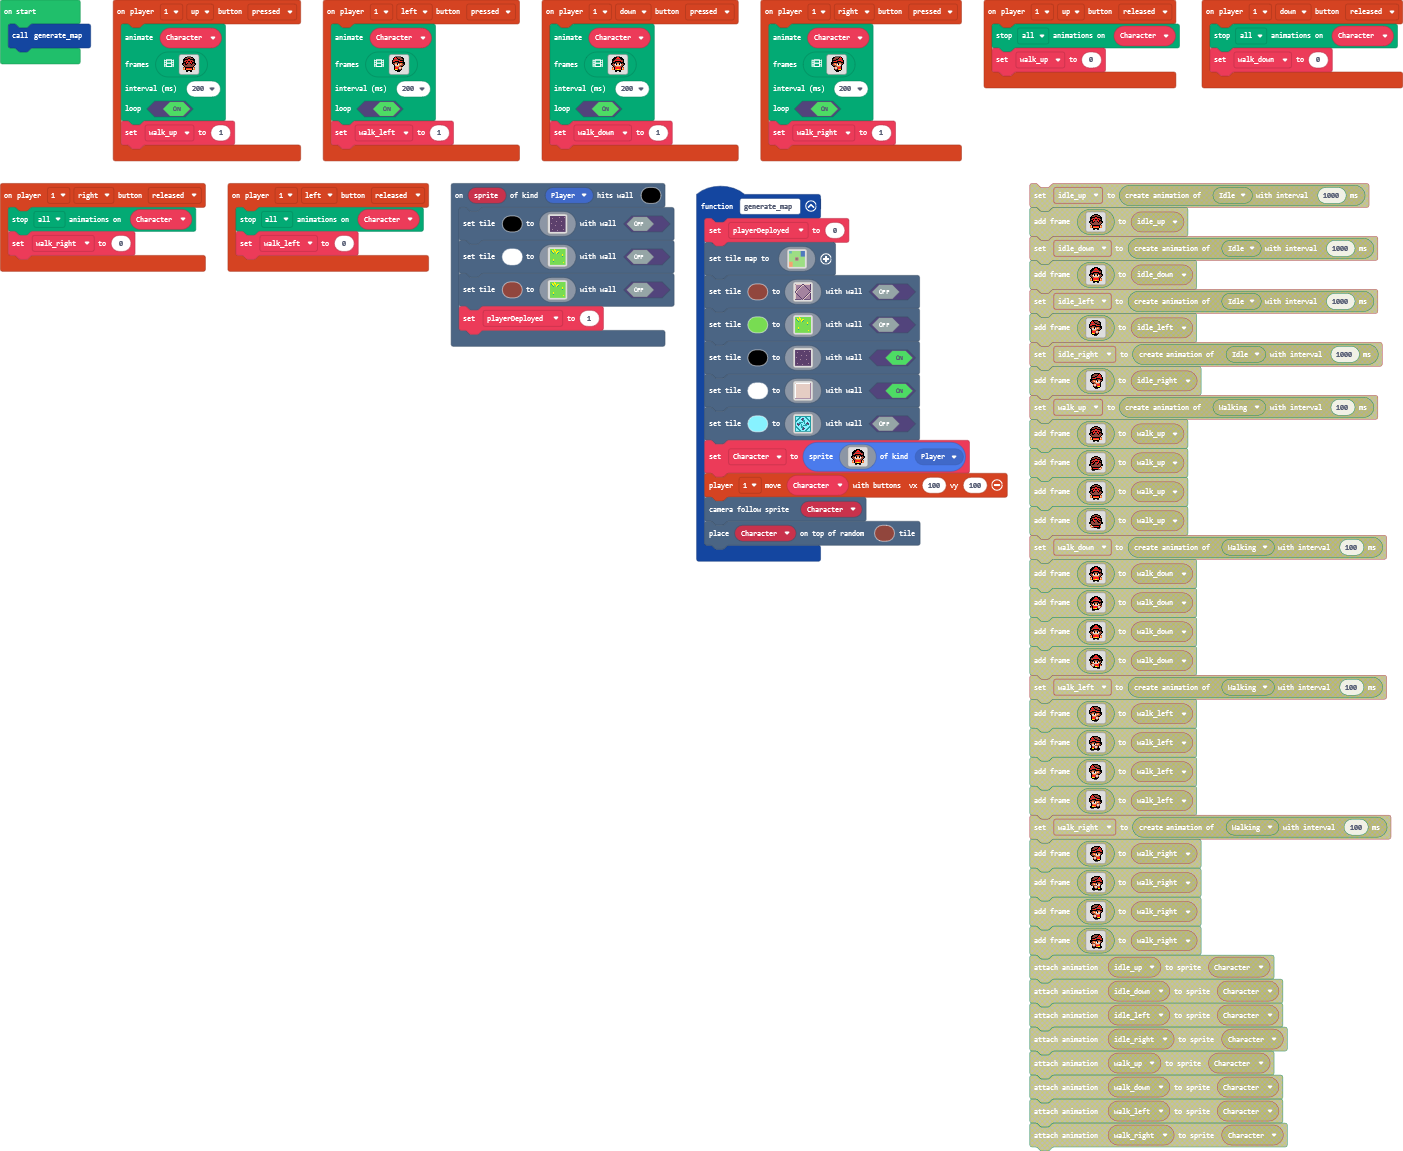
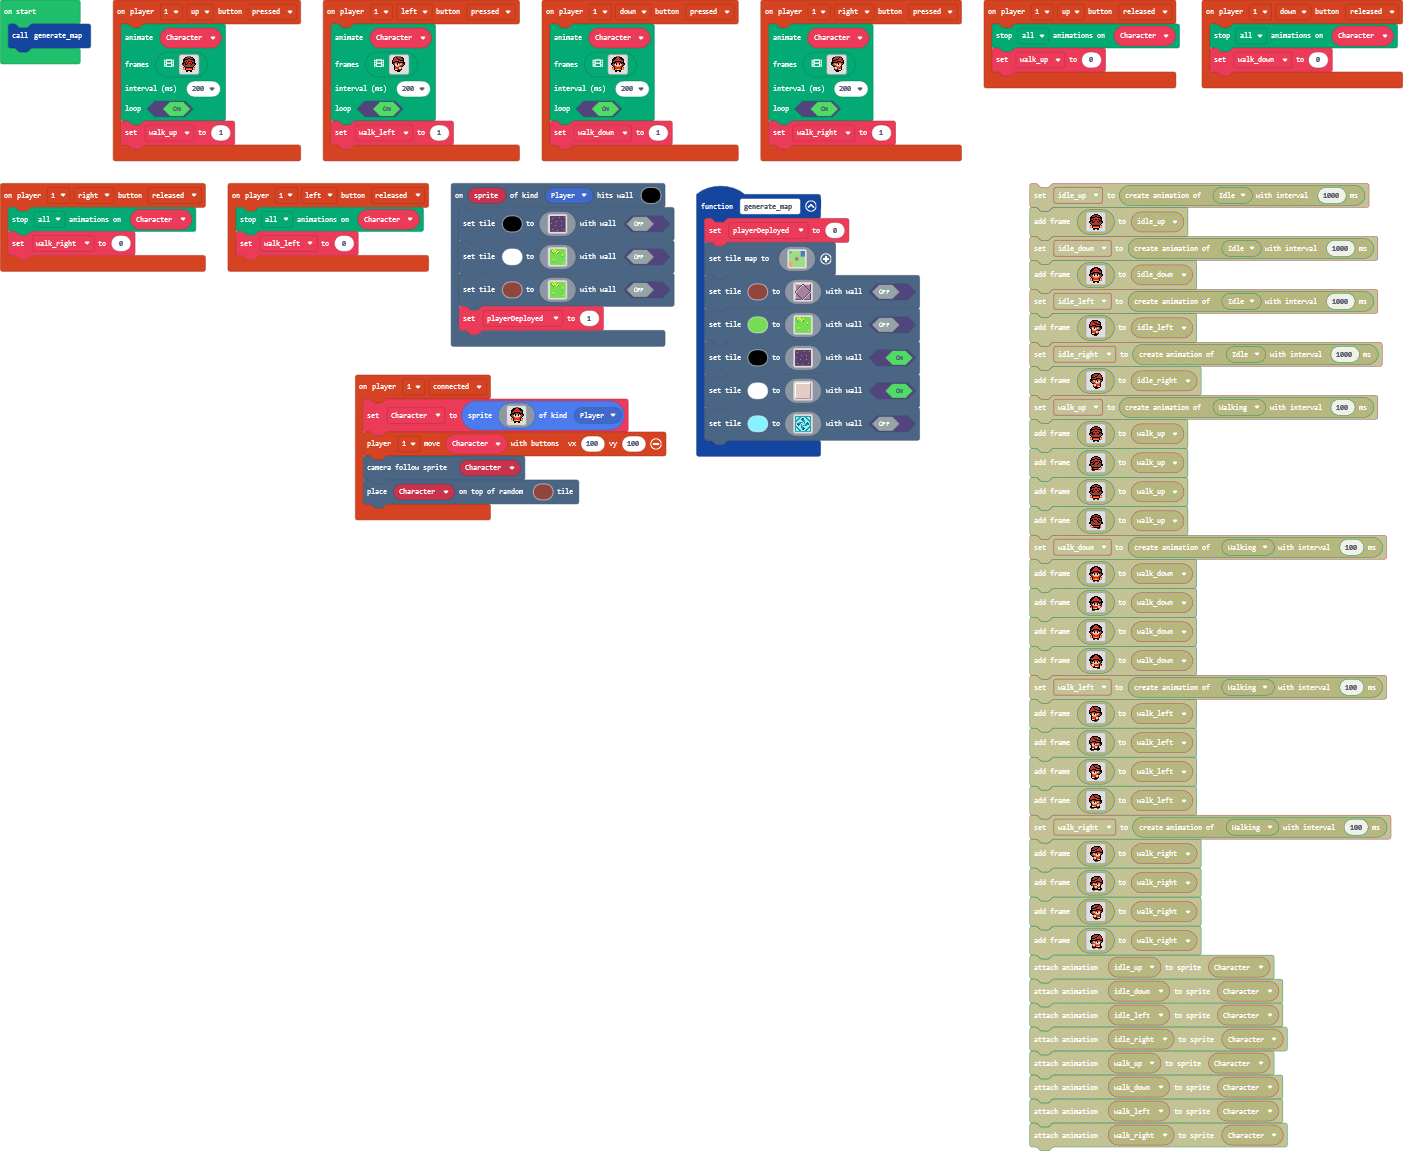
Update main.blocks, main.ts

Changed region(s): [[0.2452, 0.3041, 0.7356, 0.4865]]

diff --git a/main.ts b/main.ts
@@ -233,6 +233,29 @@ controller.player1.onButtonEvent(ControllerButton.Right, ControllerButtonEvent.R
     animation.stopAnimation(animation.AnimationTypes.All, Character)
     walk_right = 0
 })
+controller.player1.onEvent(ControllerEvent.Connected, function () {
+    Character = sprites.create(img`
+        . . . . . . f f f f . . . . . . 
+        . . . . f f f 2 2 f f f . . . . 
+        . . . f f f 2 2 2 2 f f f . . . 
+        . . f f f e e e e e e f f f . . 
+        . . f f e 2 2 2 2 2 2 e e f . . 
+        . . f e 2 f f f f f f 2 e f . . 
+        . . f f f f e e e e f f f f . . 
+        . f f e f b f 4 4 f b f e f f . 
+        . f e e 4 1 f d d f 1 4 e e f . 
+        . . f e e d d d d d d e e f . . 
+        . . . f e e 4 4 4 4 e e f . . . 
+        . . e 4 f 2 2 2 2 2 2 f 4 e . . 
+        . . 4 d f 2 2 2 2 2 2 f d 4 . . 
+        . . 4 4 f 4 4 5 5 4 4 f 4 4 . . 
+        . . . . . f f f f f f . . . . . 
+        . . . . . f f . . f f . . . . . 
+        `, SpriteKind.Player)
+    controller.player1.moveSprite(Character, 100, 100)
+    scene.cameraFollowSprite(Character)
+    scene.placeOnRandomTile(Character, 14)
+})
 function generate_map () {
     playerDeployed = 0
     scene.setTileMap(img`
@@ -455,27 +478,6 @@ function generate_map () {
         6 9 9 9 6 6 9 9 9 9 6 6 9 9 9 6 
         6 6 6 6 6 6 6 6 6 6 6 6 6 6 6 6 
         `, false)
-    Character = sprites.create(img`
-        . . . . . . f f f f . . . . . . 
-        . . . . f f f 2 2 f f f . . . . 
-        . . . f f f 2 2 2 2 f f f . . . 
-        . . f f f e e e e e e f f f . . 
-        . . f f e 2 2 2 2 2 2 e e f . . 
-        . . f e 2 f f f f f f 2 e f . . 
-        . . f f f f e e e e f f f f . . 
-        . f f e f b f 4 4 f b f e f f . 
-        . f e e 4 1 f d d f 1 4 e e f . 
-        . . f e e d d d d d d e e f . . 
-        . . . f e e 4 4 4 4 e e f . . . 
-        . . e 4 f 2 2 2 2 2 2 f 4 e . . 
-        . . 4 d f 2 2 2 2 2 2 f d 4 . . 
-        . . 4 4 f 4 4 5 5 4 4 f 4 4 . . 
-        . . . . . f f f f f f . . . . . 
-        . . . . . f f . . f f . . . . . 
-        `, SpriteKind.Player)
-    controller.player1.moveSprite(Character, 100, 100)
-    scene.cameraFollowSprite(Character)
-    scene.placeOnRandomTile(Character, 14)
 }
 controller.player1.onButtonEvent(ControllerButton.Left, ControllerButtonEvent.Pressed, function () {
     animation.runImageAnimation(
